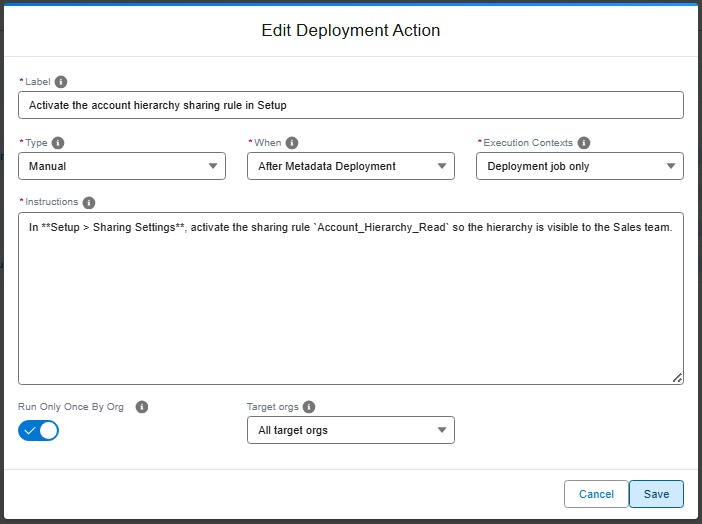
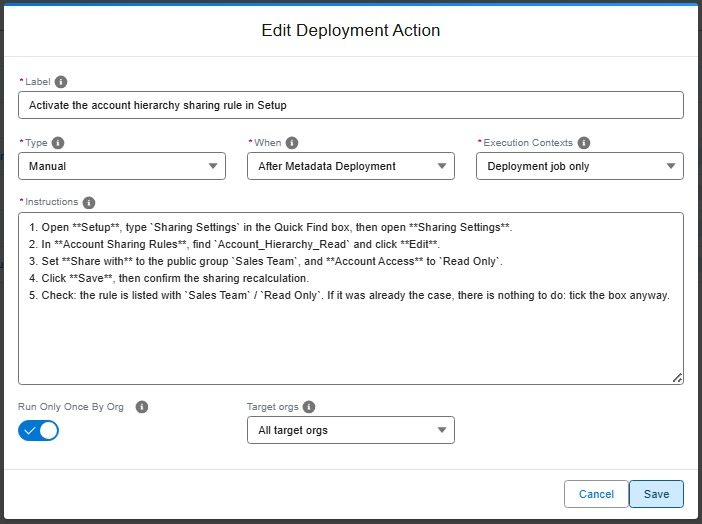
docs: explain how to write replayable manual deployment actions
A manual deployment action is replayed in every org, sometimes months
later and by someone else. When it goes wrong, it is rarely the action
itself but a one-line description that assumed the reader already knew
which setting and which value.

- Add a "Write the instructions click by click" section with the rule
  "describe the manual action as if it was for someone who does not know
  Salesforce at all" and the list of what good instructions contain
- Replace the one-line YAML example with a too-short / click-by-click pair
- Nudge to automate first (command, Apex, data) before declaring a manual step
- Tell release managers that reviewing the manual steps is part of
  reviewing the Pull Request, and when to reject it
- Refresh the manual action editor screenshot with the new field help

Changed region(s): [[0.0299, 0.4275, 0.9573, 0.5802]]

diff --git a/docs/salesforce-ci-cd-work-on-task-deployment-actions.md b/docs/salesforce-ci-cd-work-on-task-deployment-actions.md
@@ -10,7 +10,7 @@ description: "Automate and track the steps around your deployments: data loads, 
 
 Deploying a User Story is not always just about metadata. Sometimes something else must happen around the deployment: load reference records, run an Apex script, publish an Experience Cloud site, schedule a batch job, or simply remind someone to activate a setting in Setup.
 
-**Deployment actions** let you declare these steps once, together with your Pull Request. sfdx-hardis then runs them automatically in every org your work is deployed to (integration, uat, preprod, production...), in the right order, exactly once per org, and keeps a visible record of what has been done where.
+**Deployment actions** let you declare these steps once, together with your Pull Request. sfdx-hardis then runs them automatically in every org your work is deployed to (integration, uat, preprod, production...), in the right order, exactly once per org, and keeps a visible record of what has been done where. Even the steps a human must perform are declared the same way, so they are replayed identically from one org to the next instead of living in someone's memory or in a chat message.
 
 You can automate (or track) the following kinds of steps:
 
@@ -390,9 +390,27 @@ Only available as a **pre-deploy** action. The removal applies to the temporary 
 
 #### Manual step
 
-Some things cannot be automated: activating a setting in Setup, warning a team, checking an external system. A manual step describes what must be done. sfdx-hardis reminds the right person at the right time, in the Pull Request comments, with a checkbox to tick once it is done.
+Some things cannot be automated: activating a feature that has no API, warning a team, checking an external system. A manual step describes what must be done. sfdx-hardis reminds the right person at the right time, in the Pull Request comments, with a checkbox to tick once it is done.
+
+Before declaring a manual step, check whether it can be scripted: a setting that can be changed with an `sf` command, an Apex anonymous script or a data load belongs in a [command](#run-a-command), [Apex](#run-an-apex-script) or [data](#import-data-sfdmu) action, which runs by itself in every org. Keep `manual` for what really needs a human.
 
 ![Manual deployment action](assets/images/screenshot-deployment-action-manual.jpg)
+
+##### Write the instructions click by click
+
+A manual step is performed several times: in integration, then uat, then preprod, then production, sometimes months apart, often by a different person each time. When a manual step goes wrong, it is rarely the action itself: it is a one-line description that assumed the reader already knew which setting and which value.
+
+So the rule is: **describe the manual action as if it was for someone who does not know Salesforce at all.** Good instructions say:
+
+- the **exact Setup path**, starting from the Quick Find box,
+- the **exact name** of the item to change (field, setting, named credential, user, permission set...),
+- the **exact value** to set, per org if it differs,
+- **how to check** that it worked,
+- **what to do if it is already done** (usually: nothing, tick the box anyway).
+
+No need to say in which orgs the step applies: that is the job of the **Target orgs** field of the action (see [Choose the target orgs](#choose-the-target-orgs)), and the status matrix shows who still has to do it where.
+
+The release manager reads the manual steps when reviewing the Pull Request, and rejects it when a step is not replayable by someone else (see [Validate a Pull Request](salesforce-ci-cd-validate-merge-request.md#deployment-actions)).
 
 <details markdown="1"><summary>Technical: manual action (YAML)</summary>
 
@@ -402,13 +420,34 @@ The Pull Request comments show the instructions (rendered as markdown) and an un
 |---------------------------|----------------------------------------------------------------------------------------------------------------------------------|---------|
 | `parameters.instructions` | Human-readable instructions or checklist for the operator/reviewer, in markdown format. Use a YAML block to preserve formatting. |         |
 
+Too short: which named credential? what is the expected value? how do I know it worked?
+
 ```yaml
 - id: url-check
   label: Check external callback URL
   type: manual
   parameters:
+    instructions: Check that the callback URL is correct in Named Credentials.
+  context: process-deployment-only
+```
+
+Click by click: anyone can replay it in uat, preprod or production.
+
+```yaml
+- id: url-check
+  label: Set the ERP callback URL in Named Credential ERP_Callback
+  type: manual
+  parameters:
     instructions: |
-      Verify that the callback URL in `Setup > Named Credentials` is reachable from the target org and matches the production URL.
+      1. Open **Setup**, type `Named Credentials` in the Quick Find box, then open **Named Credentials**.
+      2. Click **ERP_Callback**, then **Edit**.
+      3. Set **URL** to the value of the org you are in (ask the integration team if it is not in the list):
+         - uat: `https://erp-uat.example.com/callback`
+         - preprod: `https://erp-preprod.example.com/callback`
+         - production: `https://erp.example.com/callback`
+      4. Click **Save**.
+      5. Check: open **ERP_Callback** again, the URL shown is the one of the list above.
+         If it was already correct, there is nothing to do: tick the box anyway.
   context: process-deployment-only
 ```
 

diff --git a/docs/salesforce-ci-cd-validate-merge-request.md b/docs/salesforce-ci-cd-validate-merge-request.md
@@ -87,6 +87,8 @@ Contributors declare the steps that must happen around the deployment of their U
 - **Automated actions** (run a command, import data with SFDMU, run an Apex script, publish an Experience Cloud site, schedule an Apex batch, remove items from package.xml) run by themselves in each org at deployment time. You have nothing to do.
 - **Manual steps** appear as checkboxes in the **Deployment Actions** comment of the Pull Request. Perform them at the right moment (before or after the deployment, as described in the step), then tick the box so sfdx-hardis records them as done. See [Track what has been done](salesforce-ci-cd-work-on-task-deployment-actions.md#track-what-has-been-done).
 
+**Reviewing the manual steps is part of reviewing the Pull Request.** A manual step will be replayed in uat, preprod and production, maybe months later, maybe by someone else. Read each one as if you did not know the project, and ask yourself: can I do this without asking the author anything? If the step does not say the **exact Setup path**, the **exact name of the item**, the **value to set** and **how to check it worked**, reject the Pull Request and ask for a [click by click description](salesforce-ci-cd-work-on-task-deployment-actions.md#write-the-instructions-click-by-click). A good rule to give the team: *describe the manual action as if it was for someone who does not know Salesforce at all.*
+
 **IMPORTANT**: If **custom Profiles** are deployed for the **first time**, you MUST **create them manually** in the target org, by **cloning them from the "Minimal Access" Profile**.
 
 ___
